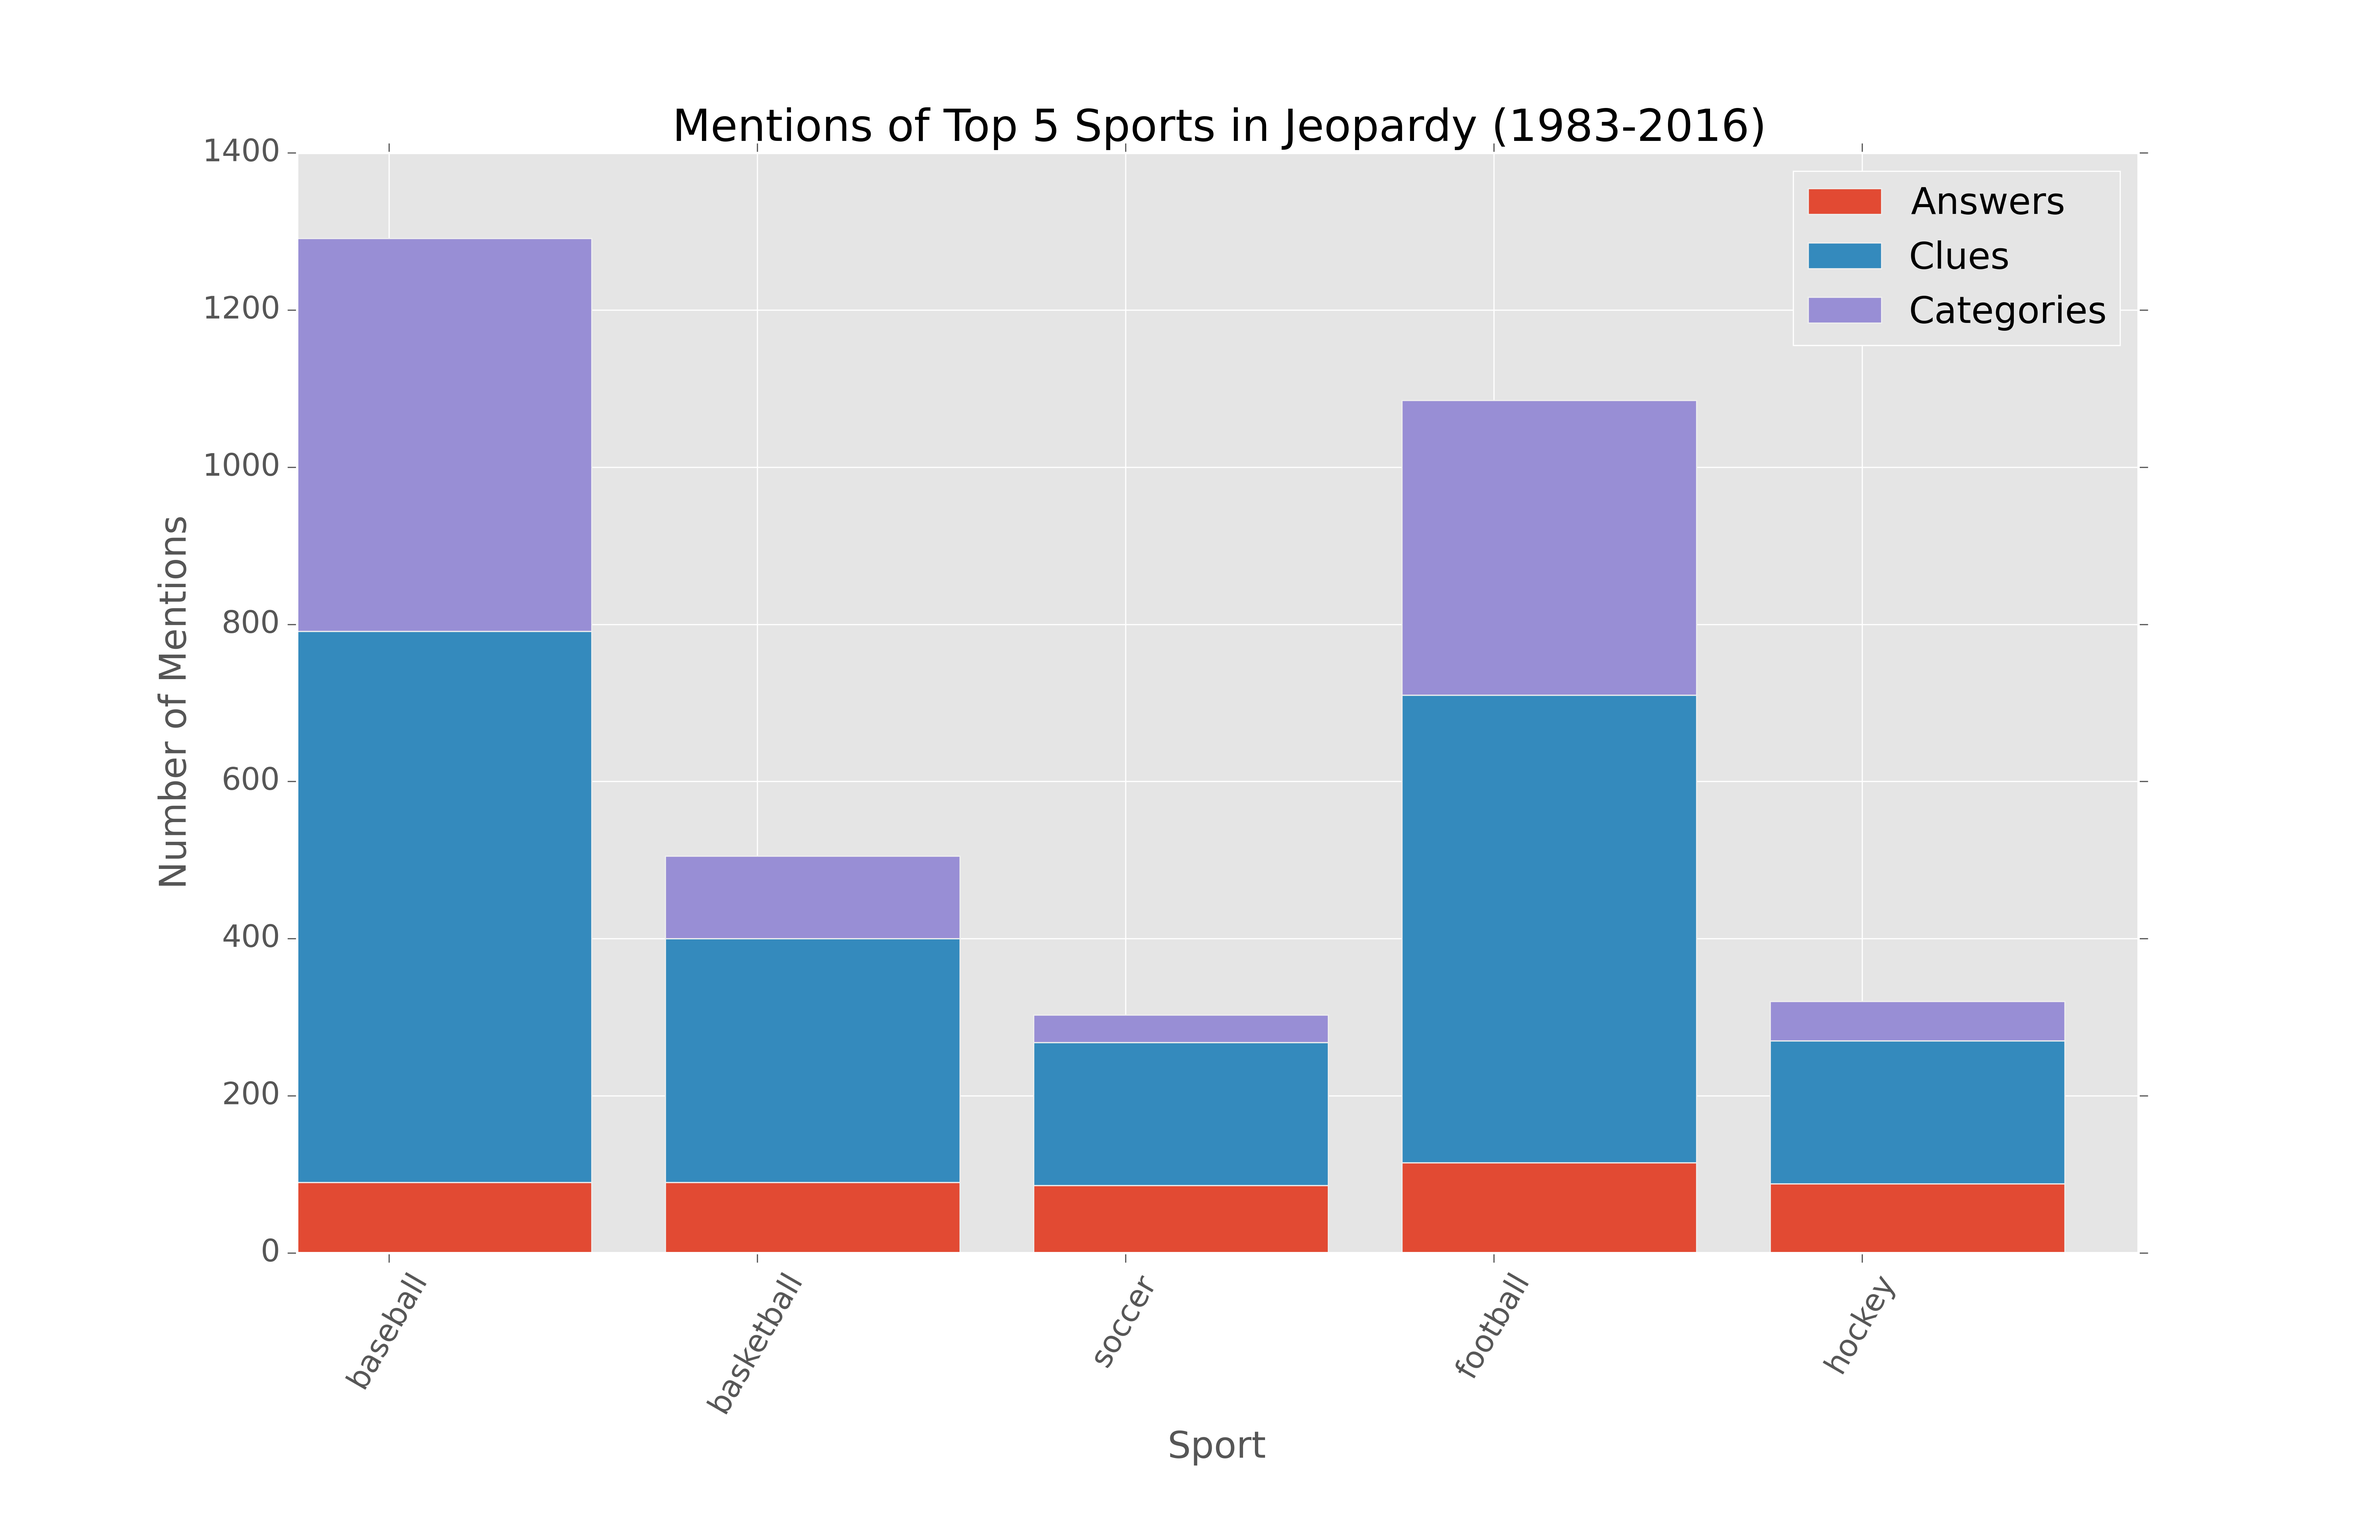
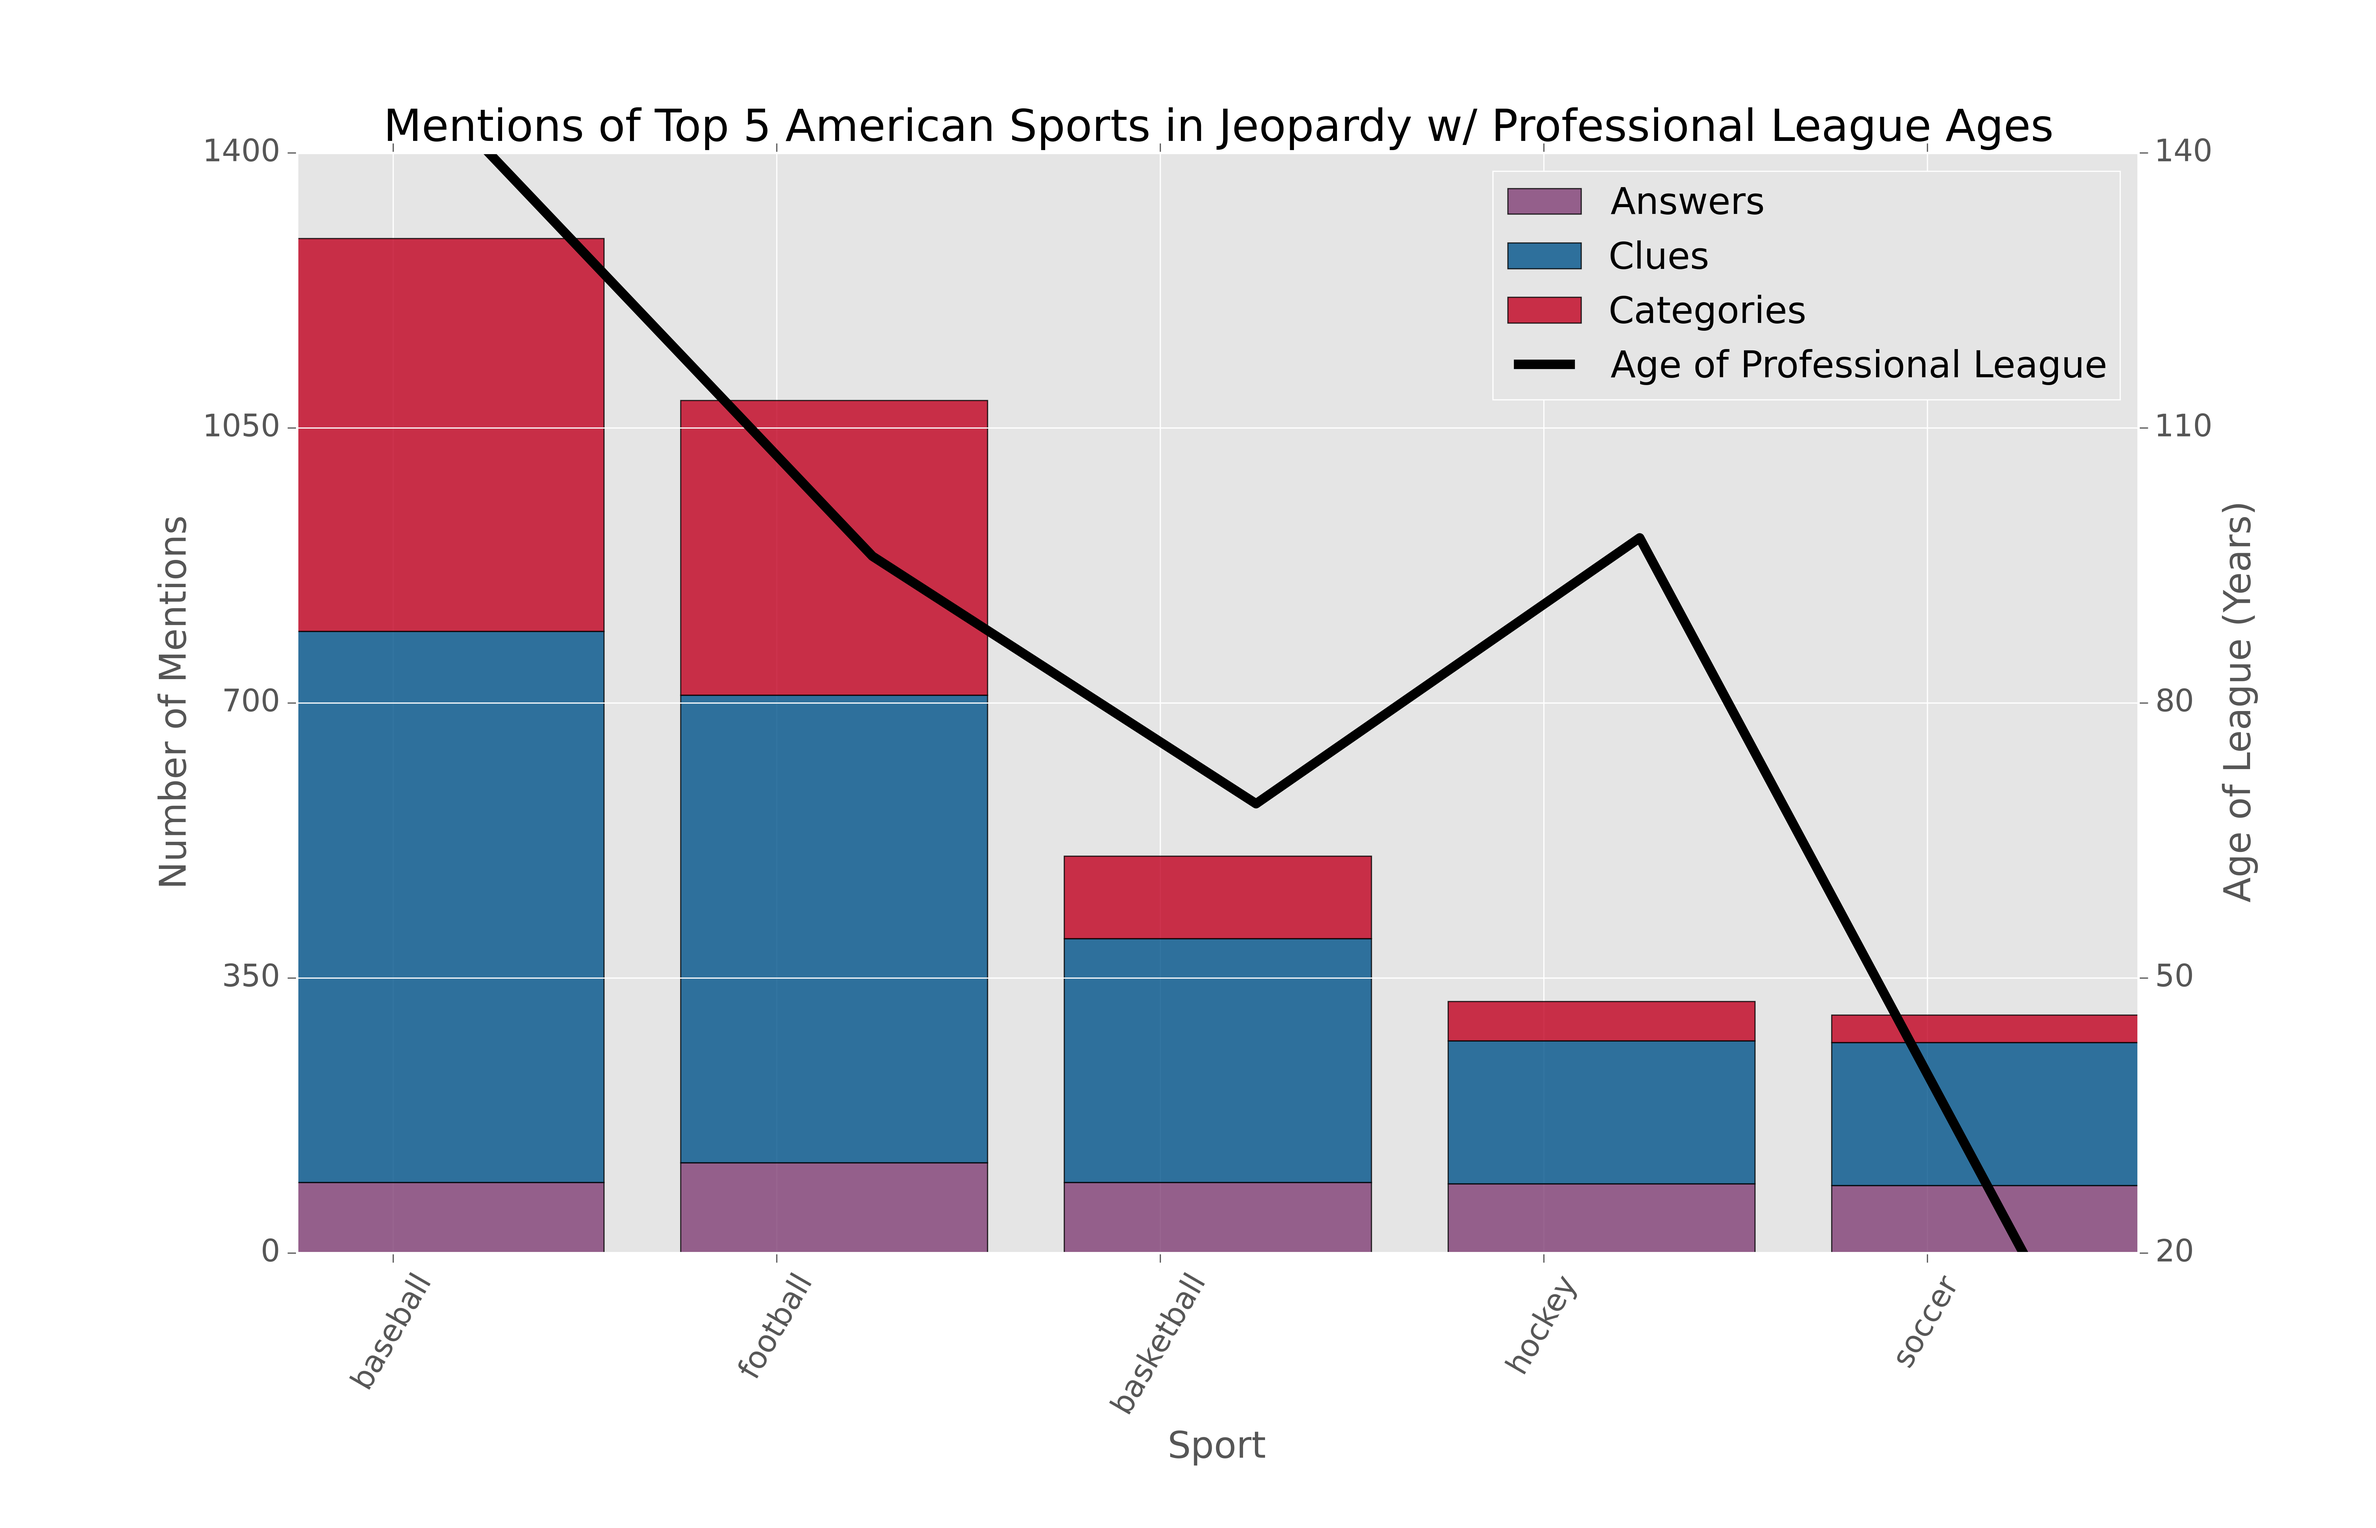
updated the sports graph
added age of professional league

diff --git a/fun_comparisons.py b/fun_comparisons.py
@@ -117,7 +117,7 @@ def jep_sport_word_count():
     
     # 36x faster to import the csv rather than an xlsx file
     jep_df = pd.read_csv('total_scrape_1.csv')
-    sports5 = ['baseball', 'basketball', 'soccer', 'football', 'hockey']
+    sports5 = {'baseball':140, 'basketball':69, 'soccer':20, 'football':96, 'hockey':98}
     
     categories = list(jep_df['Category'])
     lc_cats = [w.lower() for w in categories]
@@ -131,7 +131,7 @@ def jep_sport_word_count():
     jep_df['lc_cats'] = lc_cats
     
     sport_counts = []
-    sport_counts.append(['Sport', 'Answers', 'Clues', 'Categories'])
+    sport_counts.append(['Sport', 'Age', 'Answers', 'Clues', 'Categories'])
 
     for sport in sports5:
 
@@ -139,26 +139,26 @@ def jep_sport_word_count():
         clue_count = jep_df.lc_clues.str.contains(sport).sum()
         cat_count = jep_df.lc_cats.str.contains(sport).sum()
         
-        sport_counts.append([sport, answer_count, clue_count, cat_count])
+        age = sports5[sport]
+        
+        sport_counts.append([sport, age, answer_count, clue_count, cat_count])
         
     sport_results = pd.DataFrame(sport_counts, columns = sport_counts[0])
     sport_results.to_csv('sport_results.csv')
     
     end = time.clock()
     print (end-start)
-    
-#jep_city_word_count()
-
 
     sport_results = pd.read_csv('sport_results.csv', skiprows=1)
     
     sport_results['total_mentions'] = sport_results['Answers'] + sport_results['Clues']  + sport_results['Categories'] 
+    sport_results = sport_results.sort_values(by = 'total_mentions', ascending=False)
     
     ind = np.arange(5)
     fig, ax1 = plt.subplots()
-    ax1.bar(ind, sport_results['Answers'], color = plt.rcParams['axes.color_cycle'][0], label = 'Answers')
-    ax1.bar(ind, sport_results['Clues'], bottom = sport_results['Answers'], color = plt.rcParams['axes.color_cycle'][1], label = 'Clues')
-    ax1.bar(ind, sport_results['Categories'], bottom = sport_results['Answers']+sport_results['Clues'], color = plt.rcParams['axes.color_cycle'][2], label = 'Categories')
+    ax1.bar(ind, sport_results['Answers'], color = '#803E75', label = 'Answers', edgecolor = 'k', alpha = 0.8)
+    ax1.bar(ind, sport_results['Clues'], bottom = sport_results['Answers'], color ='#00538A', label = 'Clues', edgecolor = 'k', alpha = 0.8)
+    ax1.bar(ind, sport_results['Categories'], bottom = sport_results['Answers']+sport_results['Clues'], color = '#C10020', label = 'Categories', edgecolor = 'k', alpha = 0.8)
     
     plt.xlabel('Sport')
     plt.ylabel('Number of Mentions')
@@ -168,26 +168,27 @@ def jep_sport_word_count():
     plt.xticks(y, cities, rotation=60)
     #plt.ylim(0,4000)
     
-#    ax2 = ax1.twinx()
-#    z = [x+0.5 for x in ind]
-#    ax2.plot(z, pop10['pop']/1000000, label = 'Population', linewidth = 4, color = plt.rcParams['axes.color_cycle'][4])
-#    ax2.set_ylabel('Population in Millions')
-#    
-    #ax1.set_yticks(np.linspace(ax1.get_ybound()[0], ax1.get_ybound()[1], 5))
-    #ax2.set_yticks(np.linspace(ax2.get_ybound()[0], ax2.get_ybound()[1], 5))
-    #ax2.set_ylim(0,9.1)
+    ax2 = ax1.twinx()
+    z = [x+0.5 for x in ind]
+    ax2.plot(z, sport_results['Age'], label = 'Age of Professional League', linewidth = 4, color = 'k')# marker = 'D', markeredgecolor = 'k')
+    ax2.set_ylabel('Age of League (Years)')
     
-    #h1, l1 = ax1.get_legend_handles_labels()
-    #h2, l2 = ax2.get_legend_handles_labels()
-    #ax1.legend(h1+h2, l1+l2, loc=1)
-    plt.legend()
+    ax1.set_yticks(np.linspace(ax1.get_ybound()[0], ax1.get_ybound()[1], 5))
+    ax2.set_yticks(np.linspace(ax2.get_ybound()[0], ax2.get_ybound()[1], 5))
+    #ax2.set_ylim(0,150)
     
-    
+    h1, l1 = ax1.get_legend_handles_labels()
+    h2, l2 = ax2.get_legend_handles_labels()
+    ax1.legend(h1+h2, l1+l2, loc=1)
+   # plt.legend()
+     
     plt.gcf().subplots_adjust(bottom=0.18)
     
-    plt.title('Mentions of Top 5 Sports in Jeopardy (1983-2016)')
+    plt.title('Mentions of Top 5 American Sports in Jeopardy w/ Professional League Ages')
     #plt.show()
     plt.savefig('sports5.png', dpi=500)
 
 jep_sport_word_count()
 
+
+    
